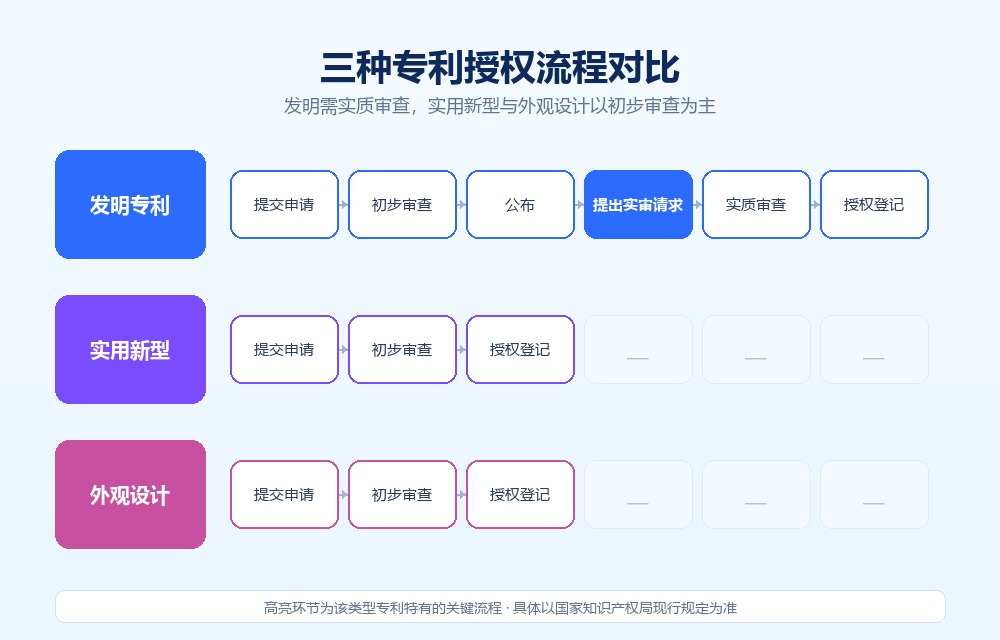
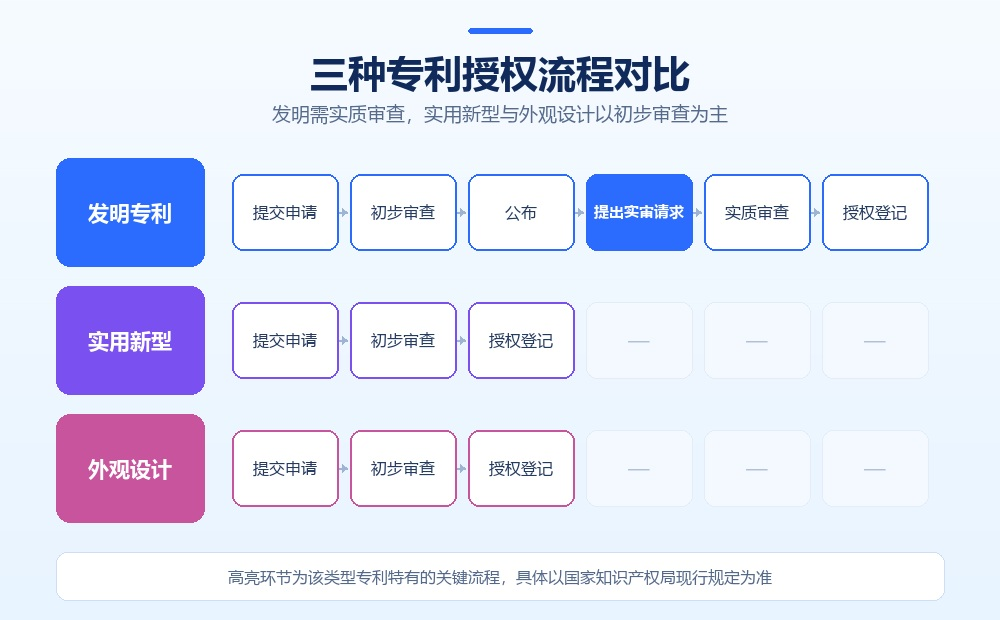
配图: 重绘两张文章信息图并改为完整显示不裁切

diff --git a/assets/css/style.css b/assets/css/style.css
@@ -227,7 +227,7 @@ img{max-width:100%;display:block}
 .article-meta{text-align:center;color:var(--muted);font-size:14px;margin-bottom:30px;padding-bottom:22px;border-bottom:1px solid var(--line)}
 .article-body p{color:#33445f;line-height:2.1;margin-bottom:18px;font-size:16px;text-align:left;text-indent:2em}
 .article-body h3{font-size:20px;color:var(--ink);margin:28px 0 14px;padding-left:12px;border-left:3px solid var(--blue)}
-.article-cover{width:100%;height:340px;object-fit:cover;border-radius:var(--r-md);margin-bottom:28px}
+.article-cover{width:100%;height:auto;object-fit:contain;border-radius:var(--r-md);margin-bottom:28px;display:block}
 /* 通知类文章：按公文习惯居左、段首空两字（覆盖全站居中要求） */
 .article-body.notice-body p{text-align:left;text-indent:2em}
 

diff --git a/scripts/make_article_imgs.py b/scripts/make_article_imgs.py
@@ -1,6 +1,7 @@
 # -*- coding: utf-8 -*-
 """用 PIL 绘制两篇 SEO 文章配图（代码生成，无水印）。
 seo-trademark-guide.jpg / seo-patent-timeline.jpg
+设计原则：蓝色专业配色、充足留白、文字与边框保持安全距离、缩小后仍清晰。
 """
 from PIL import Image, ImageDraw, ImageFont
 
@@ -8,105 +9,145 @@ FONT = "C:/Windows/Fonts/msyh.ttc"
 FONT_B = "C:/Windows/Fonts/msyhbd.ttc"
 OUT = "D:/项目管理文件夹/2026-11-19-15-27-25/site/assets/img/covers/"
 
+INK = (16, 42, 92)
+SUB = (86, 106, 140)
+LINE = (206, 222, 246)
+CARD = (255, 255, 255)
+BLUE = (43, 108, 255)
+
+
 def f(size, bold=False):
     return ImageFont.truetype(FONT_B if bold else FONT, size)
+
 
 def grad(w, h, c1, c2):
     im = Image.new("RGB", (w, h), c1)
     d = ImageDraw.Draw(im)
     for y in range(h):
         t = y / max(h - 1, 1)
-        d.line([(0, y), (w, y)], fill=tuple(int(c1[i]*(1-t)+c2[i]*t) for i in range(3)))
+        d.line([(0, y), (w, y)], fill=tuple(int(c1[i] * (1 - t) + c2[i] * t) for i in range(3)))
     return im, d
+
 
 def ctext(d, text, cx, y, size, fill, bold=False):
     fo = f(size, bold)
-    d.text((cx - d.textlength(text, font=fo)/2, y), text, font=fo, fill=fill)
+    d.text((cx - d.textlength(text, font=fo) / 2, y), text, font=fo, fill=fill)
+
 
 def wrap(d, text, font, maxw):
     out, cur = [], ""
     for ch in text:
         if d.textlength(cur + ch, font=font) > maxw and cur:
-            out.append(cur); cur = ch
+            out.append(cur)
+            cur = ch
         else:
             cur += ch
-    if cur: out.append(cur)
+    if cur:
+        out.append(cur)
     return out
+
 
 # ===== 图1：商标注册五步流程 =====
 def trademark():
-    W, H = 1000, 620
-    im, d = grad(W, H, (245,250,255), (232,242,255))
-    ctext(d, "东莞商标注册完整流程", W/2, 40, 36, (14,42,92), True)
-    ctext(d, "从查询准备到核准领证，按步骤推进", W/2, 92, 18, (96,116,148))
+    W, H = 1000, 560
+    im, d = grad(W, H, (246, 251, 255), (230, 241, 255))
+
+    # 顶部装饰细条
+    d.rounded_rectangle((W / 2 - 32, 30, W / 2 + 32, 35), radius=3, fill=BLUE)
+    ctext(d, "东莞商标注册完整流程", W / 2, 48, 38, INK, True)
+    ctext(d, "从查询准备到核准领证，按步骤推进", W / 2, 104, 19, SUB)
+
     steps = [
-        ("01", "注册前查询", "近似排查\n确定类别与项目", (43,108,255)),
-        ("02", "准备材料", "主体证明\n商标图样 · 委托书", (90,80,230)),
-        ("03", "提交与受理", "形式审查\n补正 · 受理通知", (130,75,225)),
-        ("04", "实审与公告", "实质审查\n初步审定公告", (175,80,200)),
-        ("05", "核准领证", "商标注册证\n规范使用与续展", (210,90,160)),
+        ("01", "注册前查询", "近似排查\n确定类别与项目", (43, 108, 255)),
+        ("02", "准备材料", "主体证明\n商标图样 · 委托书", (88, 88, 232)),
+        ("03", "提交与受理", "形式审查\n补正 · 受理通知", (128, 80, 224)),
+        ("04", "实审与公告", "实质审查\n初步审定公告", (172, 84, 204)),
+        ("05", "核准领证", "商标注册证\n规范使用与续展", (206, 92, 160)),
     ]
-    x0, cw, gap = 55, 168, 22
+    x0, cw, gap = 56, 166, 22
+    top, bot = 160, 400
     for i, (num, name, desc, col) in enumerate(steps):
-        x = x0 + i*(cw+gap)
-        d.rounded_rectangle((x, 150, x+cw, 430), radius=16, fill=(255,255,255), outline=(212,224,246), width=2)
-        d.rounded_rectangle((x+14, 166, x+62, 206), radius=10, fill=col)
-        nw = d.textlength(num, font=f(20, True))
-        d.text((x+38-nw/2, 173), num, font=f(20, True), fill=(255,255,255))
-        d.text((x+16, 224), name, font=f(19, True), fill=(14,42,92))
-        d.line((x+16, 258, x+cw-16, 258), fill=(220,230,246), width=2)
+        x = x0 + i * (cw + gap)
+        d.rounded_rectangle((x, top, x + cw, bot), radius=16, fill=CARD, outline=LINE, width=2)
+        # 序号徽章
+        d.rounded_rectangle((x + 18, top + 18, x + 68, top + 60), radius=10, fill=col)
+        nw = d.textlength(num, font=f(21, True))
+        d.text((x + 43 - nw / 2, top + 24), num, font=f(21, True), fill=(255, 255, 255))
+        d.text((x + 18, top + 76), name, font=f(20, True), fill=INK)
+        d.line((x + 18, top + 112, x + cw - 18, top + 112), fill=(224, 234, 250), width=2)
         for k, line in enumerate(desc.split("\n")):
-            d.text((x+16, 278+k*32), line, font=f(15), fill=(78,98,132))
+            d.text((x + 18, top + 130 + k * 32), line, font=f(16), fill=(74, 96, 132))
         if i < 4:
-            ax = x+cw+4
-            d.line((ax, 290, ax+14, 290), fill=(150,170,205), width=3)
-            d.polygon([(ax+14,290),(ax+7,285),(ax+7,295)], fill=(150,170,205))
-    d.rounded_rectangle((55, 470, 945, 575), radius=14, fill=(255,255,255), outline=(212,224,246), width=2)
-    d.text((78, 488), "提示", font=f(18, True), fill=(43,108,255))
-    tips = ["商标图样与主体信息需保持一致，减少补正", "公告期内留意异议动态，及时答辩", "注册后留存使用证据，关注续展时间"]
+            ax = x + cw + 3
+            d.line((ax, top + 120, ax + 13, top + 120), fill=(150, 172, 208), width=3)
+            d.polygon([(ax + 13, top + 120), (ax + 6, top + 115), (ax + 6, top + 125)], fill=(150, 172, 208))
+
+    # 底部提示：文字居中、留足边距
+    d.rounded_rectangle((56, 432, 944, 528), radius=14, fill=CARD, outline=LINE, width=2)
+    d.text((84, 452), "办理提示", font=f(18, True), fill=BLUE)
+    tips = [
+        "商标图样与主体信息一致，减少补正",
+        "公告期内留意异议动态，及时答辩",
+        "注册后留存使用证据，关注续展时间",
+    ]
     for i, t in enumerate(tips):
-        x = 80 + i*295
-        d.text((x, 524), "·", font=f(15), fill=(43,108,255))
-        lines = wrap(d, t, f(14), 280)
+        x = 84 + i * 288
+        d.text((x, 488), "·", font=f(16, True), fill=BLUE)
+        lines = wrap(d, t, f(15), 268)
         for k, line in enumerate(lines[:2]):
-            d.text((x+16, 522+k*22), line, font=f(14), fill=(70,90,125))
-    im.save(OUT+"seo-trademark-guide.jpg", quality=92)
+            d.text((x + 18, 486 + k * 22), line, font=f(15), fill=(70, 92, 128))
+    im.save(OUT + "seo-trademark-guide.jpg", quality=94)
+
 
 # ===== 图2：三种专利流程对比 =====
 def patent():
-    W, H = 1000, 640
-    im, d = grad(W, H, (245,250,255), (235,246,255))
-    ctext(d, "三种专利授权流程对比", W/2, 40, 36, (14,42,92), True)
-    ctext(d, "发明需实质审查，实用新型与外观设计以初步审查为主", W/2, 92, 18, (96,116,148))
-    lanes = [
-        ("发明专利", (43,108,255), ["提交申请","初步审查","公布","提出实审请求","实质审查","授权登记"]),
-        ("实用新型", (122,75,255), ["提交申请","初步审查","授权登记","—","—","—"]),
-        ("外观设计", (200,80,160), ["提交申请","初步审查","授权登记","—","—","—"]),
-    ]
-    lx, lw = 55, 150
-    sx = 230; sw = 108; sg = 10
-    for ri, (name, col, stages) in enumerate(lanes):
-        y = 150 + ri*145
-        d.rounded_rectangle((lx, y, lx+lw, y+108), radius=14, fill=col)
-        ctext(d, name, lx+lw/2, y+40, 20, (255,255,255), True)
-        for si, st in enumerate(stages):
-            x = sx + si*(sw+sg)
-            if st == "—":
-                d.rounded_rectangle((x, y+20, x+sw, y+88), radius=12, fill=(244,248,255), outline=(226,234,247), width=1)
-                ctext(d, "—", x+sw/2, y+48, 20, (180,195,215))
-            else:
-                is_实 = "实审" in st or "请求" in st
-                fill = col if is_实 else (255,255,255)
-                tc = (255,255,255) if is_实 else (40,60,95)
-                d.rounded_rectangle((x, y+20, x+sw, y+88), radius=12, fill=fill, outline=col, width=2)
-                ctext(d, st, x+sw/2, y+44, 15, tc, is_实)
-            if si < 5 and stages[si+1] != "—" and st != "—":
-                ax = x+sw+1
-                d.line((ax, y+54, ax+8, y+54), fill=(160,180,210), width=2)
-                d.polygon([(ax+8,y+54),(ax+3,y+50),(ax+3,y+58)], fill=(160,180,210))
-    d.rounded_rectangle((55, 590, 945, 622), radius=10, fill=(255,255,255), outline=(212,224,246), width=1)
-    ctext(d, "高亮环节为该类型专利特有的关键流程 · 具体以国家知识产权局现行规定为准", W/2, 598, 14, (92,112,145))
-    im.save(OUT+"seo-patent-timeline.jpg", quality=92)
+    W, H = 1000, 620
+    im, d = grad(W, H, (246, 251, 255), (232, 244, 255))
 
-trademark(); patent()
+    d.rounded_rectangle((W / 2 - 32, 28, W / 2 + 32, 33), radius=3, fill=BLUE)
+    ctext(d, "三种专利授权流程对比", W / 2, 46, 38, INK, True)
+    ctext(d, "发明需实质审查，实用新型与外观设计以初步审查为主", W / 2, 100, 19, SUB)
+
+    lanes = [
+        ("发明专利", (43, 108, 255), ["提交申请", "初步审查", "公布", "提出实审请求", "实质审查", "授权登记"]),
+        ("实用新型", (122, 80, 240), ["提交申请", "初步审查", "授权登记", "", "", ""]),
+        ("外观设计", (200, 84, 158), ["提交申请", "初步审查", "授权登记", "", "", ""]),
+    ]
+    lx, lw = 56, 148
+    sx, sw, sg = 232, 106, 12
+    top = 158
+    rh = 108
+    gap = 20
+    for ri, (name, col, stages) in enumerate(lanes):
+        y = top + ri * (rh + gap)
+        d.rounded_rectangle((lx, y, lx + lw, y + rh), radius=14, fill=col)
+        ctext(d, name, lx + lw / 2, y + rh / 2 - 14, 21, (255, 255, 255), True)
+        for si, st in enumerate(stages):
+            x = sx + si * (sw + sg)
+            if not st:
+                d.rounded_rectangle((x, y + 16, x + sw, y + rh - 16), radius=11,
+                                    fill=(244, 249, 255), outline=(228, 236, 248), width=1)
+                ctext(d, "—", x + sw / 2, y + rh / 2 - 14, 20, (176, 192, 214))
+            else:
+                key = "实审" in st or "请求" in st
+                fill = col if key else CARD
+                tc = (255, 255, 255) if key else (36, 58, 96)
+                d.rounded_rectangle((x, y + 16, x + sw, y + rh - 16), radius=11,
+                                    fill=fill, outline=col, width=2)
+                ctext(d, st, x + sw / 2, y + rh / 2 - 11, 15 if key else 16, tc, key)
+            if si < 5 and stages[si + 1] and st:
+                ax = x + sw + 1
+                d.line((ax, y + rh / 2, ax + 8, y + rh / 2), fill=(158, 180, 212), width=2)
+                d.polygon([(ax + 8, y + rh / 2), (ax + 3, y + rh / 2 - 4), (ax + 3, y + rh / 2 + 4)],
+                          fill=(158, 180, 212))
+
+    # 底部说明：居中、留足边距
+    d.rounded_rectangle((56, 552, 944, 600), radius=11, fill=CARD, outline=LINE, width=1)
+    ctext(d, "高亮环节为该类型专利特有的关键流程，具体以国家知识产权局现行规定为准",
+          W / 2, 566, 16, (84, 104, 138))
+    im.save(OUT + "seo-patent-timeline.jpg", quality=94)
+
+
+trademark()
+patent()
 print("done")
